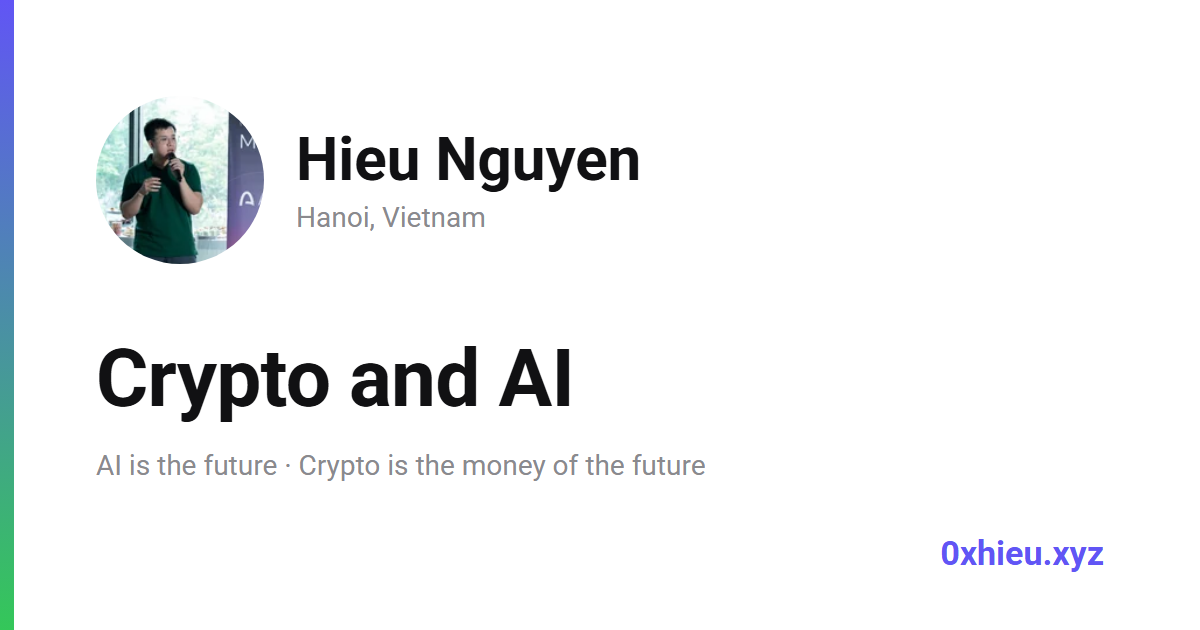
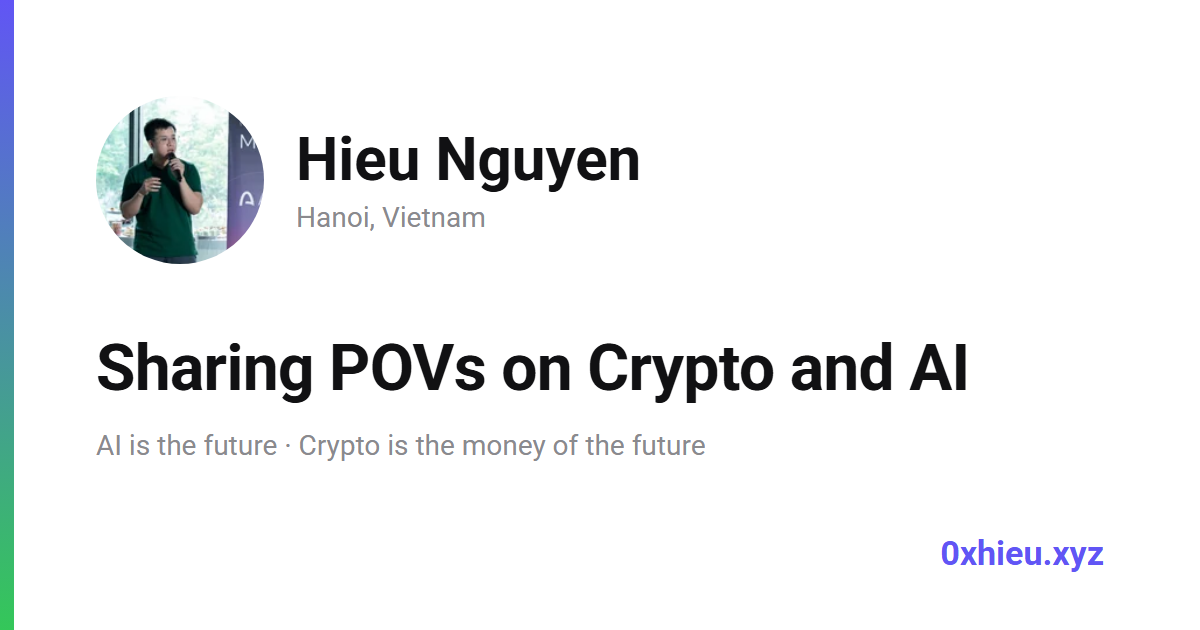
Cham ngon ve lai cau day du: "Sharing POVs on Crypto and AI"
Ban "Crypto and AI" 13 ky tu lam hero tab CV trong huech: hero chi con
dung 1 dong tagline tu 19/07 (dong "Outside crypto..." va cau "I don't
sell dreams..." da bo tu do), nen tagline chinh la toan bo phan chu gioi
thieu ban than, khong phai chi la khau hieu.

Doi dong bo 6 cho + ve lai og.png (?v=6, co chu tieu de 80px -> 64px vi
cau dai tro lai). CLAUDE.md, HANDOFF.md, Decisions Log cap nhat theo.

Verify: chup that CV desktop 1280 + mobile 390.

Changed region(s): [[0.0617, 0.5429, 0.8325, 0.6635], [0.0617, 0.6937, 0.5858, 0.754]]

diff --git a/index.html b/index.html
@@ -5,7 +5,7 @@
   <meta name="viewport" content="width=device-width, initial-scale=1.0" />
 
   <title>0xhieu.xyz</title>
-  <meta name="description" content="Hieu Nguyen (0xhieu.xyz) — Crypto and AI. AI is the future, crypto is the money of the future. Valuation · AI · Airdrop." />
+  <meta name="description" content="Hieu Nguyen (0xhieu.xyz) — Sharing POVs on Crypto and AI. AI is the future, crypto is the money of the future. Valuation · AI · Airdrop." />
   <meta name="author" content="Hieu Nguyen" />
   <link rel="canonical" href="https://0xhieu.xyz/" />
   <meta name="theme-color" content="#6155F5" />
@@ -17,14 +17,14 @@
   <meta property="og:type" content="profile" />
   <meta property="og:site_name" content="0xhieu.xyz" />
   <meta property="og:url" content="https://0xhieu.xyz/" />
-  <meta property="og:title" content="Hieu Nguyen — Crypto and AI" />
+  <meta property="og:title" content="Hieu Nguyen — Sharing POVs on Crypto and AI" />
   <meta property="og:description" content="AI is the future. Crypto is the money of the future. Valuation · AI · Airdrop." />
   <!-- ?v=N BẮT BUỘC tăng mỗi lần thay ảnh: X/Telegram/Facebook cache ảnh preview theo URL,
        giữ nguyên URL cũ thì chúng vẫn hiện ảnh cũ dù file đã thay trên server -->
-  <meta property="og:image" content="https://0xhieu.xyz/og.png?v=5" />
+  <meta property="og:image" content="https://0xhieu.xyz/og.png?v=6" />
   <meta property="og:image:width" content="1200" />
   <meta property="og:image:height" content="630" />
-  <meta property="og:image:alt" content="Hieu Nguyen — Crypto and AI. 0xhieu.xyz" />
+  <meta property="og:image:alt" content="Hieu Nguyen — Sharing POVs on Crypto and AI. 0xhieu.xyz" />
   <meta name="twitter:card" content="summary_large_image" />
   <meta name="twitter:site" content="@0xhieuxyz" />
   <meta name="twitter:creator" content="@0xhieuxyz" />
@@ -36,9 +36,9 @@
     "@type": "Person",
     "name": "Hieu Nguyen",
     "url": "https://0xhieu.xyz/",
-    "image": "https://0xhieu.xyz/og.png?v=5",
+    "image": "https://0xhieu.xyz/og.png?v=6",
     "jobTitle": "Builder + Contributor",
-    "description": "Crypto and AI. AI is the future, crypto is the money of the future.",
+    "description": "Sharing POVs on Crypto and AI. AI is the future, crypto is the money of the future.",
     "address": { "@type": "PostalAddress", "addressLocality": "Hanoi", "addressCountry": "VN" },
     "sameAs": ["https://x.com/0xhieuxyz", "https://t.me/nguyen0xhieu", "https://github.com/KattyFury"]
   }
@@ -1120,7 +1120,7 @@
             <div class="hero-location">Hanoi, Vietnam</div>
           </div>
         </div>
-        <div class="hero-tagline">Crypto and AI</div>
+        <div class="hero-tagline">Sharing POVs on Crypto and AI</div>
         <div class="socials">
           <a class="social-btn" href="https://x.com/0xhieuxyz" target="_blank" rel="noopener">
             <svg viewBox="0 0 100 100" fill="none" stroke="currentColor" stroke-width="10" stroke-linecap="round" stroke-linejoin="round"><path d="M44.2857 55.7143L10 10H30L55.7143 44.2857M44.2857 55.7143L70 90H90L55.7143 44.2857M44.2857 55.7143L10 90M55.7143 44.2857L90 10"/></svg>

diff --git a/HANDOFF.md b/HANDOFF.md
@@ -8,14 +8,14 @@
 
 ---
 
-## ⭐ HANDOFF mới nhất (2026-08-18) — Châm ngôn "Crypto and AI" (gỡ tiếng Việt khỏi CV)
+## ⭐ HANDOFF mới nhất (2026-08-18) — Châm ngôn "Sharing POVs on Crypto and AI" (gỡ tiếng Việt khỏi CV)
 
-**Câu định vị chính thức, dùng nguyên văn ở mọi nơi: `Crypto and AI`.** (Cùng ngày user rút gọn từ bản đầu `Sharing POVs on Crypto + AI` — ảnh `og.png` lên `?v=5`, cỡ chữ tiêu đề 64px → **80px** cho cân vì câu ngắn hơn nhiều.) Niềm tin đứng sau: *AI là tương lai, crypto là tiền tệ của tương lai* (câu này đi kèm ở meta/og/JSON-LD, không thay thế châm ngôn).
+**Câu định vị chính thức, dùng nguyên văn ở mọi nơi: `Sharing POVs on Crypto and AI`.** (Trong ngày đi qua 2 bản nháp: `Sharing POVs on Crypto + AI` → `Crypto and AI` → bản chốt này. Ảnh `og.png` đang ở `?v=6`, cỡ chữ tiêu đề 64px.) Niềm tin đứng sau: *AI là tương lai, crypto là tiền tệ của tương lai* (câu này đi kèm ở meta/og/JSON-LD, không thay thế châm ngôn).
 
 **Lý do sửa:** session 17/08 đặt tagline **tiếng Việt** ("Chia sẻ góc nhìn về web3, học AI, builder + contributor") vào tab CV + toàn bộ thẻ meta — sai, vì **tab CV không có toggle ngôn ngữ, nó là mặt tiếng Anh của site**. Luật đã ghi vào `CLAUDE.md`: tiếng Việt chỉ nằm ở tab có toggle VI/EN (Valuation · AI · Airdrop) và tài liệu nội bộ.
 
 **Đã đổi (7 chỗ trong `index.html` + ảnh):**
-- `.hero-tagline` (tab CV) → `Crypto and AI` (bỏ dấu chấm cuối — là châm ngôn, không phải câu văn)
+- `.hero-tagline` (tab CV) → `Sharing POVs on Crypto and AI` (bỏ dấu chấm cuối — là châm ngôn, không phải câu văn)
 - `meta description` · `og:title` · `og:description` · `og:image:alt` → châm ngôn + câu niềm tin
 - JSON-LD: **giữ `jobTitle` = "Builder + Contributor"** (schema.org cần chức danh thật, không nhét khẩu hiệu vào), thêm field **`description`** chứa châm ngôn
 - `og.png` vẽ lại: tiêu đề lớn = châm ngôn (1 dòng, cỡ chữ 56px → **64px** cho cân vì chữ ngắn hơn bản cũ), dòng phụ = `AI is the future · Crypto is the money of the future` (**thay** dòng `Valuation · AI · Airdrop` cũ — muốn quay lại thì sửa 1 dòng trong `og-gen.html`, bản so sánh đã render sẵn ở `C:\tmp\cvshot\og-b.png`)
@@ -405,6 +405,7 @@ qua server dev, đừng sửa `index.html`.)
 
 ## Decisions Log
 
+- 2026-08-18: **Chốt châm ngôn `Sharing POVs on Crypto and AI`** — bản `Crypto and AI` (entry dưới) chỉ giữ được ít phút: rút xuống 13 ký tự làm **hero của tab CV trông trống huếch** — hero vốn chỉ còn đúng 1 dòng tagline từ 19/07 (dòng "Outside crypto…" và câu "I don't sell dreams…" đã bỏ từ đó), nên câu tagline chính là toàn bộ phần chữ giới thiệu. **Bài học:** với hero 1 dòng, tagline không chỉ là khẩu hiệu mà là **cả đoạn mô tả bản thân** — rút quá ngắn là mất luôn phần "about me". Ảnh `og.png` lên `?v=6`, cỡ chữ tiêu đề về lại 64px (80px chỉ hợp với câu 13 ký tự).
 - 2026-08-18: **Rút châm ngôn xuống còn `Crypto and AI`** (thay bản đầu cùng ngày `Sharing POVs on Crypto + AI`, entry dưới) — user chốt ngắn gọn, và chốt luôn **đổi đồng bộ cả 6 chỗ** thay vì chỉ dòng hero: `.hero-tagline`, `meta description`, `og:title`, `og:image:alt`, JSON-LD `description`, và vẽ lại `og.png` (`?v=4` → **`?v=5`**). `og:description` không đụng vì nó chứa câu niềm tin chứ không chứa châm ngôn. Trong `og-gen.html` phải **tăng cỡ chữ tiêu đề 64px → 80px**: câu mới chỉ 13 ký tự, để nguyên 64px thì nửa dưới ảnh trống huếch. **Verify:** chụp thật `og.png` 1200×630 (1 dòng, cân khung); chụp CV desktop 1280 + mobile 390; curl site production kiểm tra cả 5 thẻ + ảnh.
 - 2026-08-18: **Thang vốn hoá VC-FDV: đổi nhãn `L`→`M` cho rổ >$300M, soạn sẵn bậc `L` = >$500M nhưng chưa kích hoạt** — reason: user hỏi chia 2 bậc (S/L ở $300M) có chuẩn không, hay nên 3 bậc S/M/L. Kéo tab DATA (76 dự án) tính median ×TGE theo khoảng vcFDV: `<$100M` ×4.25 (n=27) · `$100–300M` ×4.61 (n=28) · `$300–500M` ×2.70 (n=7) · `>$500M` ×2.73 (n=14); riêng 12 tháng gần nhất (40 dự án): ×3.38 (n=17) · ×3.73 (n=14) · ×2.82 (n=4) · ×1.49 (n=5). **Kết luận:** tách bậc ở nửa dưới $300M là vô nghĩa (2 khoảng đầu chênh nhau trong sai số), ngưỡng $300M hiện tại đúng là chỗ data gãy. Chỗ ĐÁNG tách bậc 3 lại là đầu to ($300–500M ×2.82 vs >$500M ×1.49 trong 2026) nhưng n=4 và n=5, quá ít để tin. Chi phí nếu tách sớm: rổ `>$500M` có 6 dự án gần nhất trải 313 ngày (box lấy 6 gần nhất mỗi rổ → cửa sổ kéo về 11/2025, trộn chế độ thị trường), và `predictFDV()` thiếu mẫu sẽ âm thầm fallback về toàn bộ pool. Nên: giữ nguyên toán 2 rổ ở `FDV_SPLIT = $300M`, chỉ đổi **nhãn** hiển thị `L`→`M` và khai sẵn bậc `L` = $500M qua `capLabel()` + `CAP_M`/`CAP_L`/`CAP_L_ACTIVE`. Bật khi rổ >$500M đủ ≥12 dự án trong 12 tháng gần nhất. **Verify:** `new Function()` parse sạch script inline; chụp thật desktop 1280 — cột Ticker ra S/M đúng ngưỡng (OP/ARB/SUI/WLD/SEI = M, HOOK/ARKM = S), chú giải trong box khớp hậu tố.
 - 2026-08-18: **Tiêu đề Valuation dài trở lại (`Theo dõi altcoin để nhận định thị trường`) — sửa CHỖ CẮT CHỮ thay vì rút ngắn câu** — reason: 16/08 câu dài bị mobile cắt mất chữ nên đã rút còn "Theo dõi thị trường", nhưng đó là chữa triệu chứng: nguyên nhân thật là `.panel-head .val-intro > span` ép `white-space: nowrap` + `text-overflow: ellipsis`, tức **mọi** tiêu đề dài hơn 1 dòng đều sẽ mất chữ, không riêng câu đó. Fix gốc: cho xuống tối đa 2 dòng bằng `-webkit-line-clamp: 2` + `white-space: normal` + `line-height: 1.25`; hộp `.val-intro` đã cao sẵn 2 hàng (`calc(var(--row)*2)` ≈ 56px) nên 2 dòng 15px vừa khít, lưới hàng không đổi, và quá 2 dòng vẫn có ellipsis chặn nên không bao giờ tràn. **Verify:** chụp thật CDP ở 390px và 320px (cả 2 hiện đủ câu, xuống 2 dòng), desktop 1280px vẫn 1 dòng, tab AI + Airdrop không đổi vì tiêu đề ngắn.

diff --git a/CLAUDE.md b/CLAUDE.md
@@ -8,7 +8,7 @@
 
 **Châm ngôn / positioning (chốt 2026-08-18) — dùng NGUYÊN VĂN, KHÔNG dịch, KHÔNG viết lại:**
 
-> ### Crypto and AI
+> ### Sharing POVs on Crypto and AI
 
 Niềm tin đứng sau câu này: **AI là tương lai, crypto là tiền tệ của tương lai.**
 
